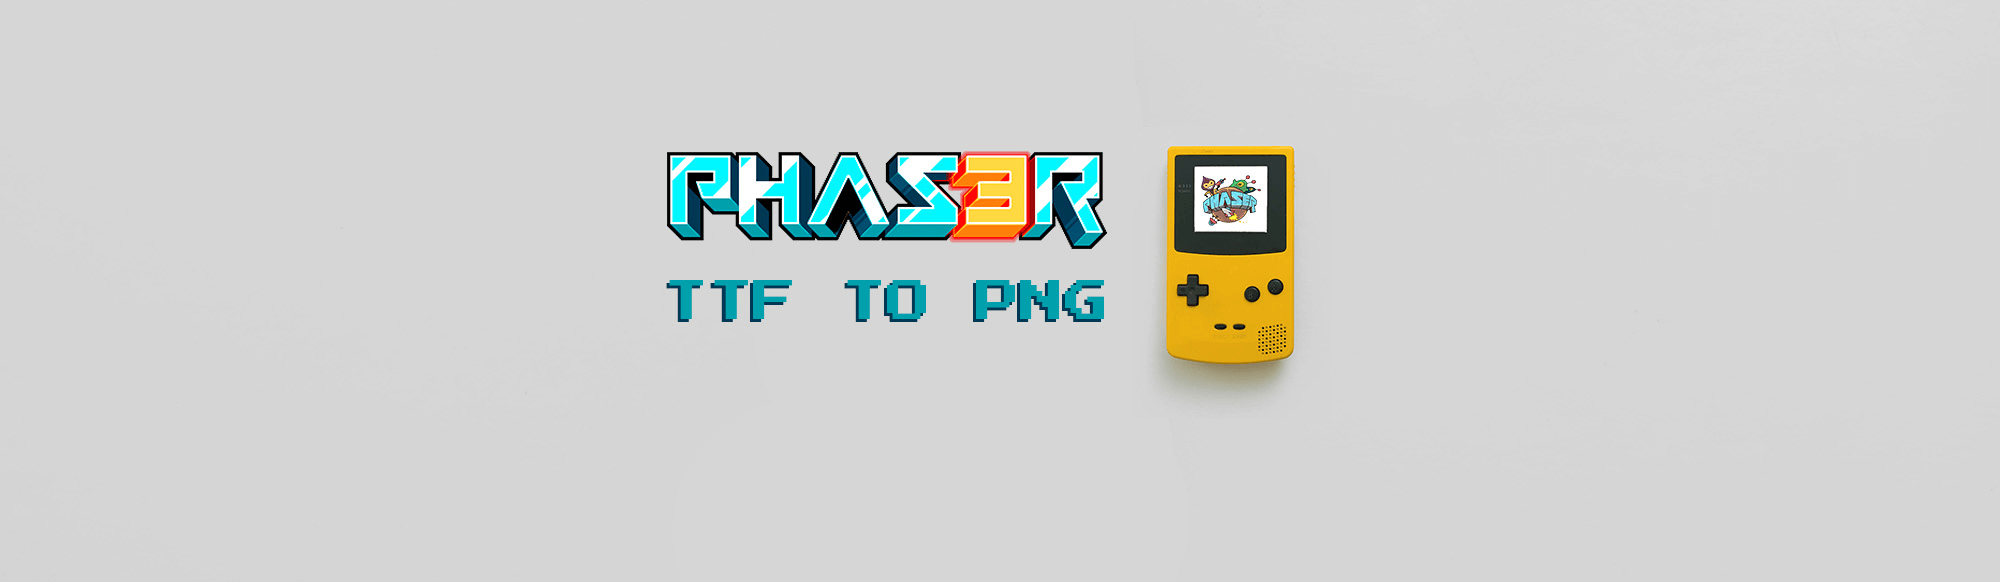
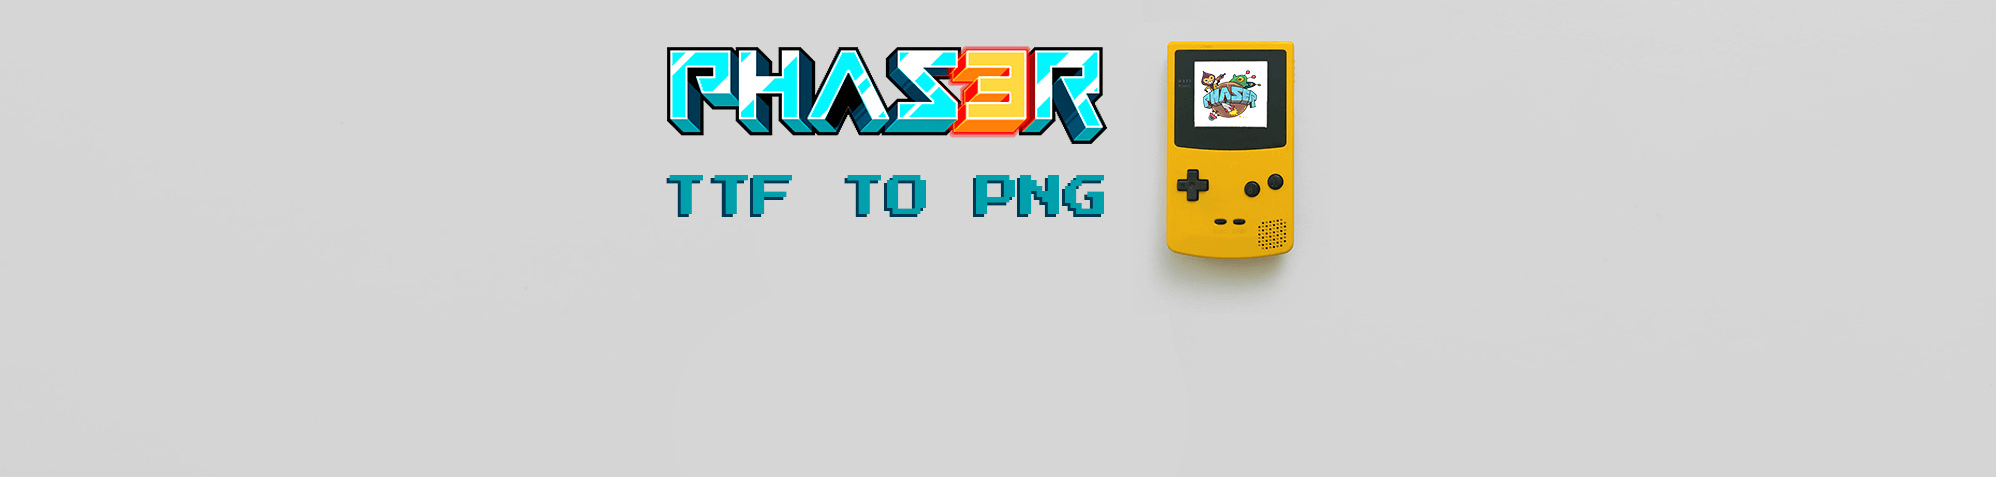
tamaño header

Changed region(s): [[0.3106, 0.0881, 0.6523, 0.7044]]

diff --git a/www/css/index.css b/www/css/index.css
@@ -2,7 +2,7 @@ nav > h2{
     color: #00F5F8;
 }
 header{
-    min-height: 600px;
+    min-height: 350px;
     background-image: url("../img/header2.png");
     background-position: center;
     font-size: cover;
